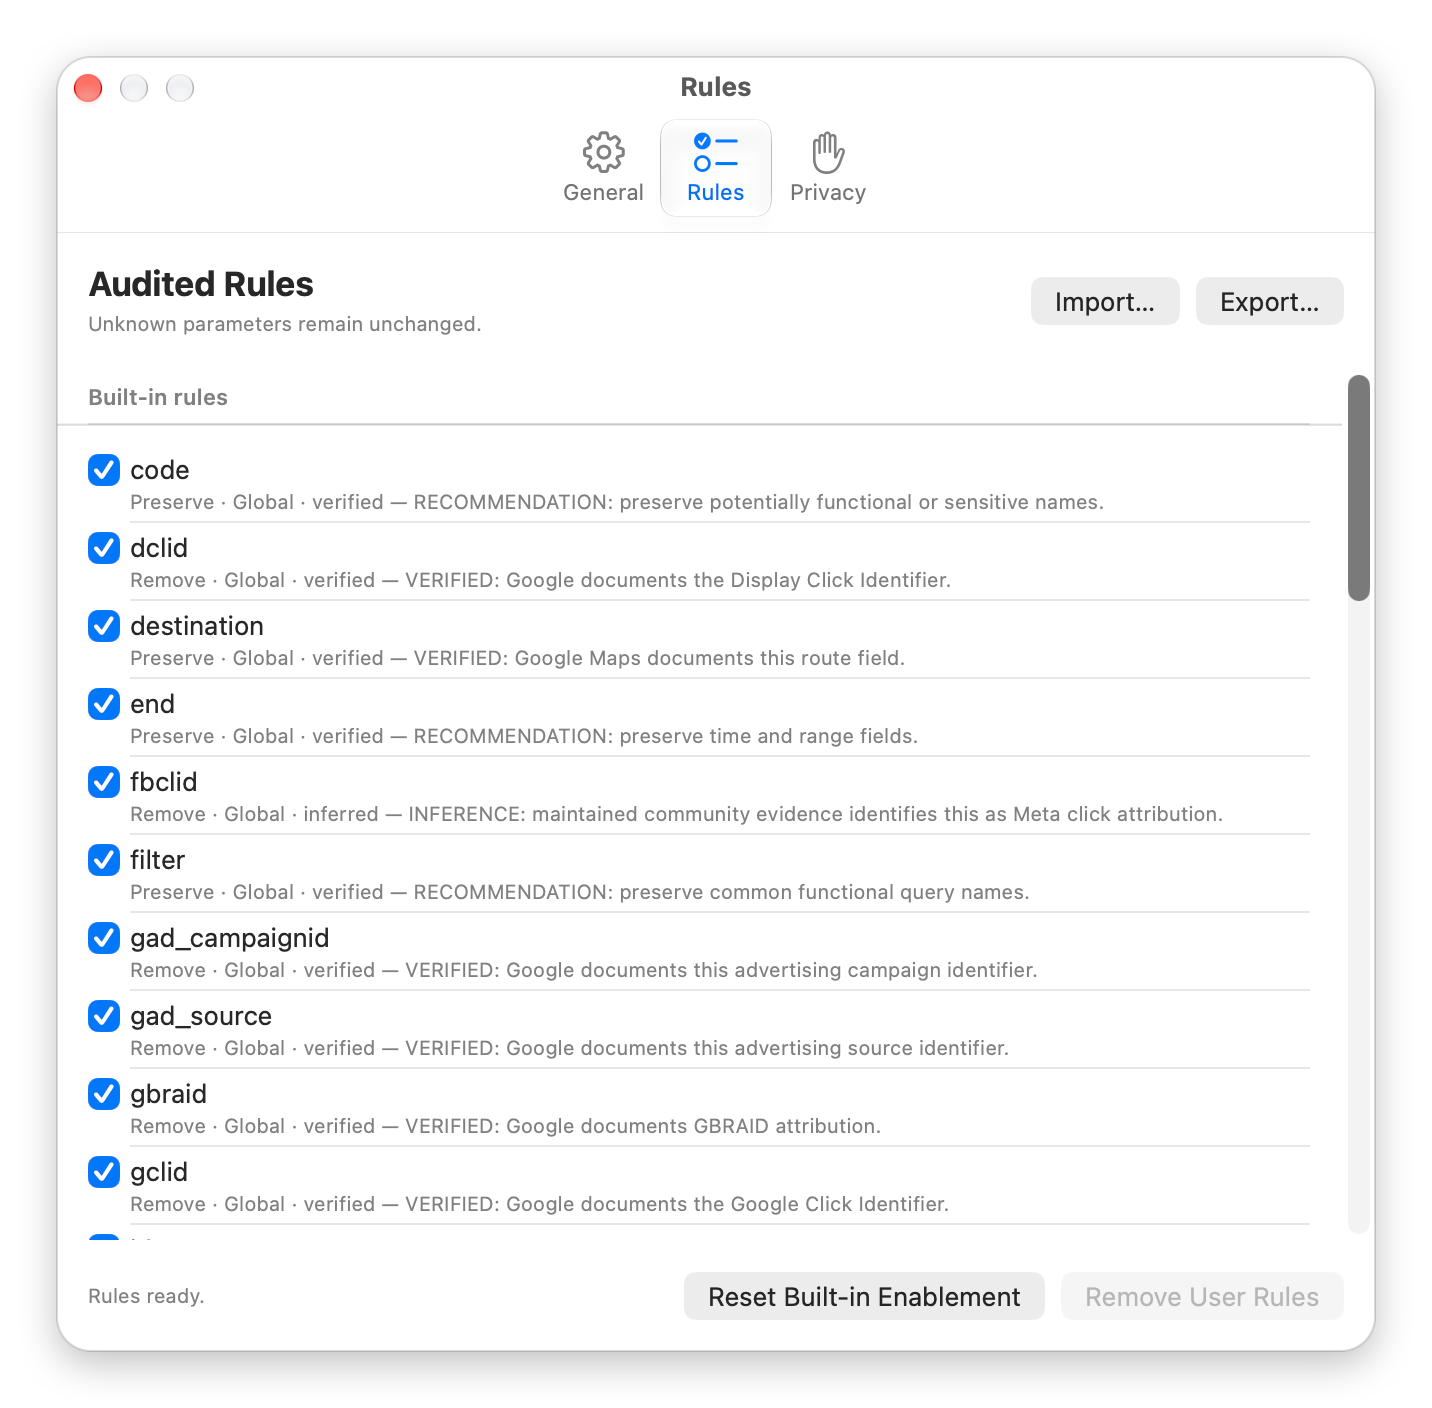
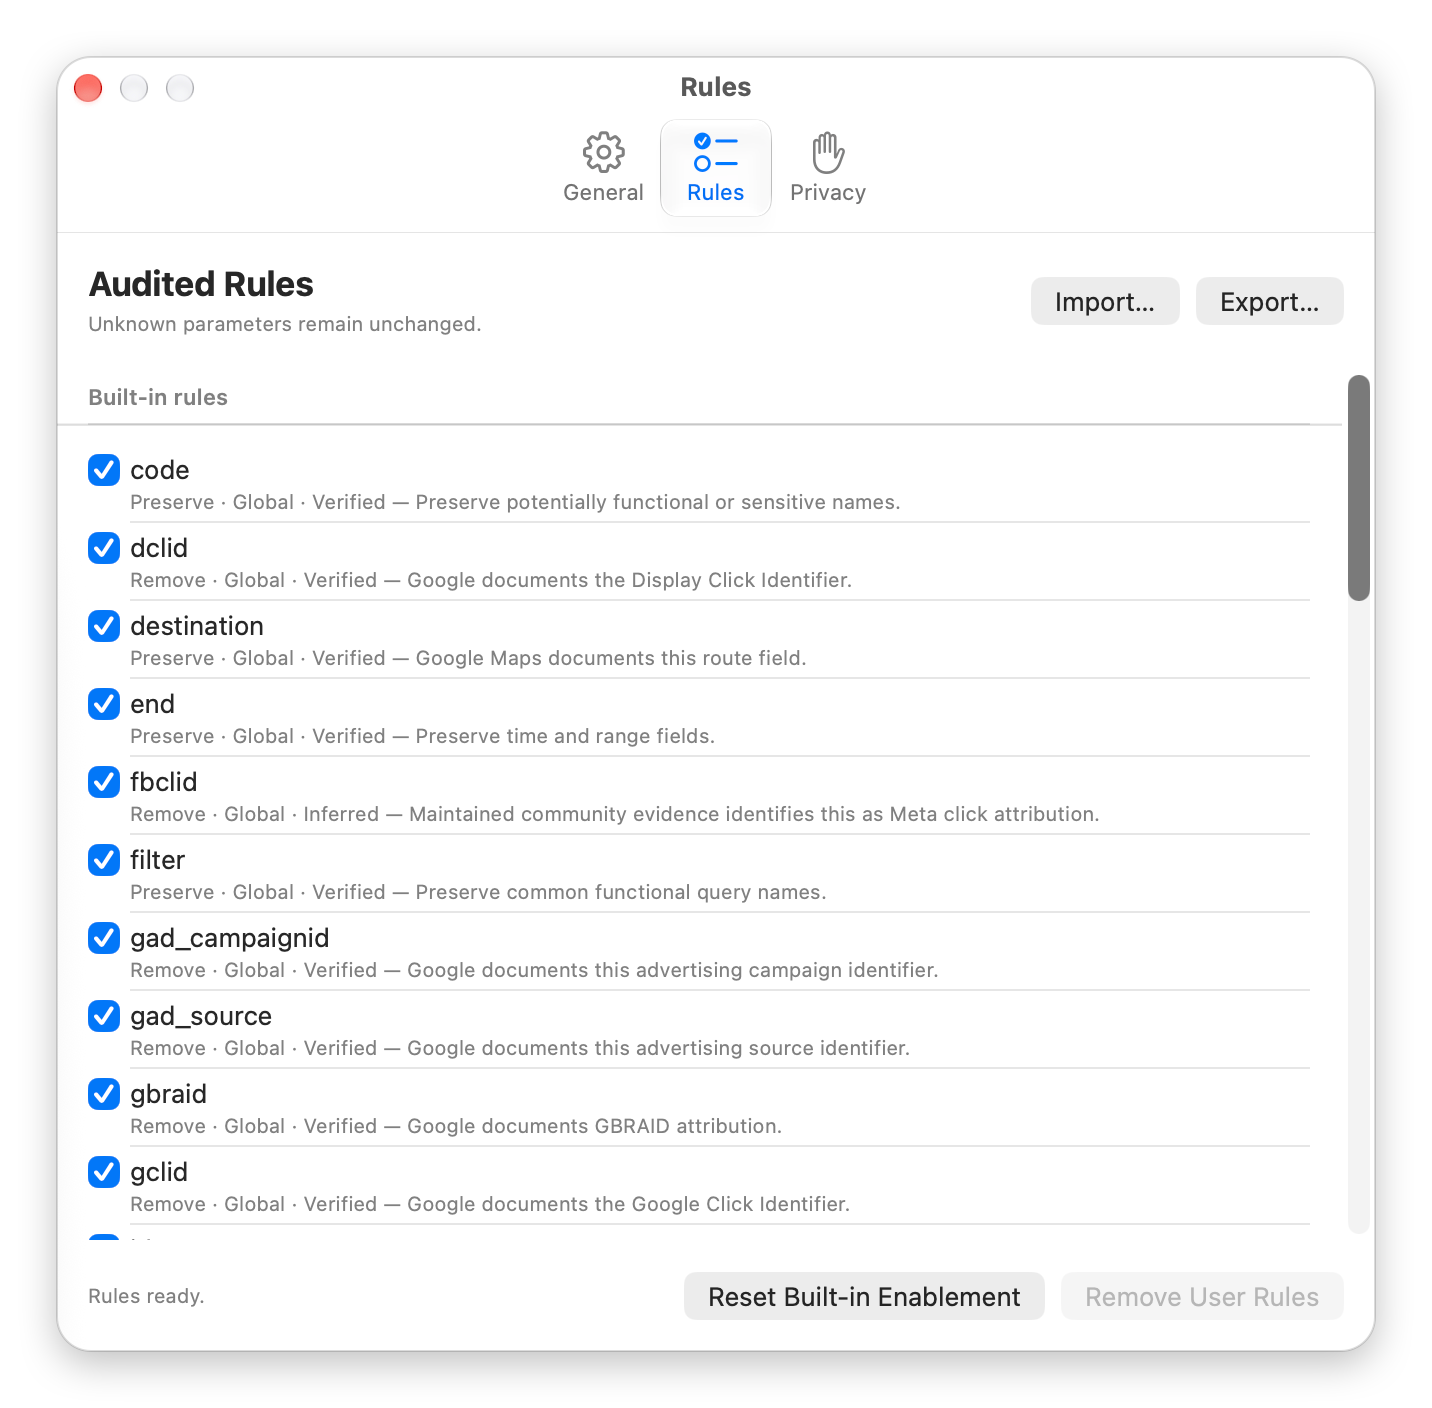
Show rule explanations without evidence tags in Settings
The Rules list subtitle now drops a leading VERIFIED:/RECOMMENDATION:/
INFERENCE: (and OPEN:/CONSEQUENCE:) tag and capitalizes the confidence
and explanation, e.g. "Remove · Global · Verified — Google documents
the Google Click Identifier." This is display-only: the bundled JSON,
stored user rules and export format are unchanged.

Adds RuleDisplayFormattingTests, refreshes rules.png, adds general.png,
and records the run in LOG.md.

diff --git a/docs/LOG.html b/docs/LOG.html
@@ -1,11 +1,11 @@
-<!-- tracker-free-docs-parity:v1 source-sha256=ebcadc584bad8fdddd96d753121a8e1fa1b8332d6051a4aa983363f3b4566094 source-path-base64=ZG9jcy9MT0cubWQ= -->
+<!-- tracker-free-docs-parity:v1 source-sha256=854890dde805da326b975e17243cba528395c5e76dd23358c14845d0f8e3ec78 source-path-base64=ZG9jcy9MT0cubWQ= -->
 <!doctype html>
 <html lang="en">
 <head>
   <meta charset="utf-8">
   <meta name="viewport" content="width=device-width, initial-scale=1">
   <meta name="generator" content="Tracker Free DocsParity v1">
[2 lines of base64/hex data omitted]
   <title>Project Log</title>
   <style>
     :root { color-scheme: light dark; font-family: -apple-system, BlinkMacSystemFont, "Segoe UI", sans-serif; line-height: 1.55; }
@@ -63,5 +63,10 @@
   <p><code>VERIFIED</code>: Added light-mode @2x screenshots under <code>docs/screenshots/</code>. The Rules and Privacy images are XCUITest window screenshots of the Release build, launched with <code>--ui-testing-open-settings</code> so it used a fake pasteboard. The menu image is the app's menu items and default post-clean state rendered by AppKit <code>NSMenu</code> in a separate harness process. Screen Recording was unavailable to the build host, and synthesized clicks did not open the status item. The throwaway capture test and harness were not committed.</p>
   <p><code>VERIFIED</code>: Built Release with Xcode 27.0 (27A5228h) on macOS 27.2 (26B5091g). The output is arm64 only; an <code>ARCHS=&quot;arm64 x86_64&quot;</code> request still produced arm64. It is ad-hoc signed with Hardened Runtime, has only the App Sandbox and user-selected read/write entitlements, and passes strict <code>codesign</code> verification both before zipping and after extraction. <code>ditto -c -k --keepParent</code> produced <code>TrackerFree-1.0.0-macOS.zip</code> (363,955 bytes; SHA-256 <code>109b218b81c191bcf2c86e6724cdb974357f10d89b194dadcd51ab0919f3085a</code>). That zip is attached to an unpublished draft GitHub release <code>v1.0.0</code> targeting <code>main</code>.</p>
   <p><code>OPEN</code>: The draft release is not notarized. Publishing it, and every installed-build item in <a href="STATUS.html">Current status</a>, remains a separate decision.</p>
+  <h2 id="2026-09-23-display-only-rule-explanation-formatting">2026-09-23 — display-only rule explanation formatting</h2>
+  <p><code>VERIFIED</code>: The Settings rule list no longer shows leading evidence tags (<code>VERIFIED:</code>, <code>RECOMMENDATION:</code>, <code>INFERENCE:</code>, <code>OPEN:</code>, <code>CONSEQUENCE:</code>) in each rule's subtitle, and it capitalizes the confidence and the first letter of the explanation. Only exact, known tags are removed. The bundled JSON, persisted user rules, and the export format are unchanged. New <code>RuleDisplayFormattingTests</code> cover tag removal, untagged and edge-case text, an unchanged stored explanation, and the absence of tags from every bundled rule's subtitle.</p>
+  <p><code>VERIFIED</code>: The Debug <code>-only-testing:TrackerFreeTests</code> run ran 83 top-level tests (79 XCTest and 4 Swift Testing): 82 passed, 1 Release-only performance case was skipped, and none failed.</p>
+  <p><code>VERIFIED</code>: The refreshed <code>docs/screenshots/rules.png</code> and the new <code>general.png</code> are XCUITest window captures of the Release build, taken in the isolated <code>--ui-testing-open-settings</code> mode with a fake pasteboard and in-memory state. The General capture turned on automatic cleaning in that isolated state only. Its Launch at Login row reports the build host's live <code>SMAppService</code> status and does not close the Launch at Login gate in <a href="STATUS.html">Current status</a>.</p>
+  <p><code>OPEN</code>: The build host locked during capture. A Rules view scrolled to the host-scoped rules could not be captured, and the existing <code>testSettingsSceneCanOpenForDocklessApp</code> could not be rerun afterwards, so it has no fresh result from this session.</p>
 </body>
 </html>

diff --git a/README.html b/README.html
@@ -1,11 +1,11 @@
-<!-- tracker-free-docs-parity:v1 source-sha256=d50855551c0a97979407caf01f5c50cab018d81fe5409ce86c65817a5972bbe2 source-path-base64=UkVBRE1FLm1k -->
+<!-- tracker-free-docs-parity:v1 source-sha256=e816e23e9fb07a020e34f834ed93a549415a1dd6daf31694dd99a8c51aeaf568 source-path-base64=UkVBRE1FLm1k -->
 <!doctype html>
 <html lang="en">
 <head>
   <meta charset="utf-8">
   <meta name="viewport" content="width=device-width, initial-scale=1">
   <meta name="generator" content="Tracker Free DocsParity v1">
[2 lines of base64/hex data omitted]
   <title>Tracker Free</title>
   <style>
     :root { color-scheme: light dark; font-family: -apple-system, BlinkMacSystemFont, "Segoe UI", sans-serif; line-height: 1.55; }
@@ -32,7 +32,7 @@
   <pre><code class="language-text">https://example.com/article?id=42</code></pre>
   <p>Tracker Free runs quietly in the menu bar. When you copy a single, plain link, it removes known tracking parameters such as <code>utm_*</code>, <code>gclid</code>, and <code>fbclid</code>, and keeps everything else exactly as it was, down to each byte. It does nothing with prose, code, rich text, short links, signed links, or login links. It has no network access, keeps nothing on disk, and every rule it applies can be reviewed in Settings.</p>
   <p>!<a href="docs/screenshots/menu.png">Tracker Free menu-bar menu showing automatic cleaning on, Skip Next, Pause, Clean Clipboard Now, Restore Original, and the last result: removed utm_source, utm_medium, utm_campaign</a></p>
-  <p>!<a href="docs/screenshots/rules.png">Tracker Free Settings, Rules tab, listing audited built-in rules such as dclid, fbclid, gclid (remove) and code, destination, filter (preserve), each with its confidence and source</a></p>
+  <p>!<a href="docs/screenshots/rules.png">Tracker Free Settings, Rules tab, listing audited built-in rules such as dclid, fbclid, gclid (remove) and code, destination, filter (preserve), each with its action, scope, confidence, and a plain-English explanation</a></p>
   <h2 id="what-it-removes">What it removes</h2>
   <p>Tracker Free removes a parameter only when a rule names it exactly. There are 52 built-in rules, and each one records its scope, a confidence level, and where the evidence for it came from.</p>
   <p>**Global tracking parameters** (removed from any qualifying link):</p>
@@ -149,7 +149,7 @@ xcodebuild -project TrackerFree.xcodeproj -scheme TrackerFree -configuration Rel
   <li>**Property checks:** <code>clean(clean(x)) == clean(x)</code>; output never grows; kept fields form an exact ordered subsequence; the scheme, host, path, and fragment stay byte-identical; rule order cannot change precedence; host fuzzing covers case, suffix attacks, ports, Punycode, and IPv4/IPv6.</li>
   <li>**Failure injection** covers clipboard races, write and readback failures, ownership loss during rollback, stale undo, competing clipboard cleaners, sleep/wake, session loss, and relaunch. Tests use fake or uniquely named pasteboards, never your real clipboard.</li>
   <li>**Performance** (Release, 21-sample medians on exactly 64 KiB inputs): a large query value in **9.09 ms**, many query fields in 1.99 ms, many path components in 0.61 ms, and a long parameter name against 512 rules in 5.48 ms. 10,000 synthetic clipboard events retained **48 KiB** of memory, against a 5 MiB budget.</li>
-  <li>The latest recorded Debug run had 78 of 79 top-level tests passing, with one Release-only performance test skipped by design. Release acceptance passed 4 of 4.</li>
+  <li>The latest Debug run of <code>TrackerFreeTests</code> had 82 of 83 top-level tests passing (79 XCTest and 4 Swift Testing), with one Release-only performance test skipped by design. The last recorded Release acceptance run passed 4 of 4.</li>
 </ul>
   <h2 id="built-with-ai">Built with AI</h2>
   <p>I built Tracker Free with AI coding agents. The agents worked within a written specification and had to back every claim with evidence. The repository keeps that process visible:</p>

diff --git a/TrackerFreeTests/RuleEngineTests.swift b/TrackerFreeTests/RuleEngineTests.swift
@@ -939,3 +939,64 @@ final class RuleEngineTests: XCTestCase {
         )
     }
 }
+
+@MainActor
+final class RuleDisplayFormattingTests: XCTestCase {
+    func testDisplayExplanationDropsLeadingEvidenceTagAndCapitalizes() {
+        XCTAssertEqual(
+            AppState.displayExplanation(
+                "VERIFIED: Google documents the Google Click Identifier."
+            ),
+            "Google documents the Google Click Identifier."
+        )
+        XCTAssertEqual(
+            AppState.displayExplanation(
+                "RECOMMENDATION: preserve potentially functional or sensitive names."
+            ),
+            "Preserve potentially functional or sensitive names."
+        )
+        XCTAssertEqual(
+            AppState.displayExplanation(
+                "INFERENCE: remove s only on anchored X or Twitter status permalinks."
+            ),
+            "Remove s only on anchored X or Twitter status permalinks."
+        )
+    }
+
+    func testDisplayExplanationLeavesUntaggedTextReadable() {
+        XCTAssertEqual(AppState.displayExplanation("user note"), "User note")
+        XCTAssertEqual(AppState.displayExplanation("URL: kept as is"), "URL: kept as is")
+        XCTAssertEqual(AppState.displayExplanation("A: short"), "A: short")
+        XCTAssertEqual(AppState.displayExplanation("VERIFIED:"), "VERIFIED:")
+        XCTAssertEqual(AppState.displayExplanation("NOTE: keep"), "NOTE: keep")
+        XCTAssertEqual(AppState.displayExplanation(""), "")
+    }
+
+    func testDisplayRowFormatsDetailWithoutChangingStoredExplanation() {
+        let rule = TestRuleFactory.rule(
+            id: "builtin.remove.gclid",
+            action: .removeParameter,
+            name: "gclid",
+            explanation: "VERIFIED: Google documents the Google Click Identifier."
+        )
+        let row = AppState.displayRow(rule)
+        XCTAssertEqual(
+            row.detail,
+            "Remove · Global · Verified — Google documents the Google Click Identifier."
+        )
+        XCTAssertEqual(
+            rule.explanation,
+            "VERIFIED: Google documents the Google Click Identifier."
+        )
+    }
+
+    func testEveryBundledRuleDetailOmitsEvidenceTags() throws {
+        let snapshot = try TestRuleFactory.builtInSnapshot()
+        for rule in snapshot.rules {
+            let detail = AppState.displayRow(rule).detail
+            for tag in ["VERIFIED:", "RECOMMENDATION:", "INFERENCE:"] {
+                XCTAssertFalse(detail.contains(tag), "\(rule.id) detail kept \(tag)")
+            }
+        }
+    }
+}

diff --git a/TrackerFree/App/AppState.swift b/TrackerFree/App/AppState.swift
@@ -716,7 +716,7 @@ final class AppState: ObservableObject {
         }
     }
 
-    private static func displayRow(_ rule: CleaningRule) -> RuleDisplayRow {
+    static func displayRow(_ rule: CleaningRule) -> RuleDisplayRow {
         let action: String
         switch rule.action {
         case .removeParameter:
@@ -740,10 +740,40 @@ final class AppState: ObservableObject {
         return RuleDisplayRow(
             id: rule.id,
             displayName: rule.name,
-            detail: "\(action) · \(scope) · \(rule.confidence.rawValue) — \(rule.explanation)",
+            detail: "\(action) · \(scope) · \(displayConfidence(rule.confidence)) — "
+                + displayExplanation(rule.explanation),
             enabled: rule.enabled,
             isHardGuard: rule.origin == .builtIn && rule.action == .hardProtectURL
         )
+    }
+
+    static func displayConfidence(_ confidence: RuleConfidence) -> String {
+        switch confidence {
+        case .verified:
+            "Verified"
+        case .inferred:
+            "Inferred"
+        case .experimental:
+            "Experimental"
+        }
+    }
+
+    /// Display-only: drops a leading evidence tag such as `VERIFIED:` or
+    /// `INFERENCE:` (the confidence is already shown) and capitalizes the
+    /// first letter. Stored and exported explanations are unchanged.
+    private static let evidenceTags = [
+        "VERIFIED:", "RECOMMENDATION:", "INFERENCE:", "OPEN:", "CONSEQUENCE:",
+    ]
+
+    static func displayExplanation(_ explanation: String) -> String {
+        var text = Substring(explanation)
+        if let tag = evidenceTags.first(where: { text.hasPrefix($0) }) {
+            text = text.dropFirst(tag.count).drop { $0 == " " }
+        }
+        guard let first = text.first else {
+            return String(explanation)
+        }
+        return first.uppercased() + text.dropFirst()
     }
 
     private static func formattedDuration(_ duration: TimeInterval) -> String {

diff --git a/docs/LOG.md b/docs/LOG.md
@@ -75,3 +75,13 @@
[1 lines of base64/hex data omitted]
 
 `OPEN`: The draft release is not notarized. Publishing it, and every installed-build item in [Current status](STATUS.md), remains a separate decision.
+
+## 2026-09-23 — display-only rule explanation formatting
+
+`VERIFIED`: The Settings rule list no longer shows leading evidence tags (`VERIFIED:`, `RECOMMENDATION:`, `INFERENCE:`, `OPEN:`, `CONSEQUENCE:`) in each rule's subtitle, and it capitalizes the confidence and the first letter of the explanation. Only exact, known tags are removed. The bundled JSON, persisted user rules, and the export format are unchanged. New `RuleDisplayFormattingTests` cover tag removal, untagged and edge-case text, an unchanged stored explanation, and the absence of tags from every bundled rule's subtitle.
+
+`VERIFIED`: The Debug `-only-testing:TrackerFreeTests` run ran 83 top-level tests (79 XCTest and 4 Swift Testing): 82 passed, 1 Release-only performance case was skipped, and none failed.
+
+`VERIFIED`: The refreshed `docs/screenshots/rules.png` and the new `general.png` are XCUITest window captures of the Release build, taken in the isolated `--ui-testing-open-settings` mode with a fake pasteboard and in-memory state. The General capture turned on automatic cleaning in that isolated state only. Its Launch at Login row reports the build host's live `SMAppService` status and does not close the Launch at Login gate in [Current status](STATUS.md).
+
+`OPEN`: The build host locked during capture. A Rules view scrolled to the host-scoped rules could not be captured, and the existing `testSettingsSceneCanOpenForDocklessApp` could not be rerun afterwards, so it has no fresh result from this session.

diff --git a/README.md b/README.md
@@ -18,7 +18,7 @@ Tracker Free runs quietly in the menu bar. When you copy a single, plain link, i
 
 ![Tracker Free menu-bar menu showing automatic cleaning on, Skip Next, Pause, Clean Clipboard Now, Restore Original, and the last result: removed utm_source, utm_medium, utm_campaign](docs/screenshots/menu.png)
 
-![Tracker Free Settings, Rules tab, listing audited built-in rules such as dclid, fbclid, gclid (remove) and code, destination, filter (preserve), each with its confidence and source](docs/screenshots/rules.png)
+![Tracker Free Settings, Rules tab, listing audited built-in rules such as dclid, fbclid, gclid (remove) and code, destination, filter (preserve), each with its action, scope, confidence, and a plain-English explanation](docs/screenshots/rules.png)
 
 ## What it removes
 
@@ -117,7 +117,7 @@ xcodebuild -project TrackerFree.xcodeproj -scheme TrackerFree -configuration Rel
 - **Property checks:** `clean(clean(x)) == clean(x)`; output never grows; kept fields form an exact ordered subsequence; the scheme, host, path, and fragment stay byte-identical; rule order cannot change precedence; host fuzzing covers case, suffix attacks, ports, Punycode, and IPv4/IPv6.
 - **Failure injection** covers clipboard races, write and readback failures, ownership loss during rollback, stale undo, competing clipboard cleaners, sleep/wake, session loss, and relaunch. Tests use fake or uniquely named pasteboards, never your real clipboard.
 - **Performance** (Release, 21-sample medians on exactly 64 KiB inputs): a large query value in **9.09 ms**, many query fields in 1.99 ms, many path components in 0.61 ms, and a long parameter name against 512 rules in 5.48 ms. 10,000 synthetic clipboard events retained **48 KiB** of memory, against a 5 MiB budget.
-- The latest recorded Debug run had 78 of 79 top-level tests passing, with one Release-only performance test skipped by design. Release acceptance passed 4 of 4.
+- The latest Debug run of `TrackerFreeTests` had 82 of 83 top-level tests passing (79 XCTest and 4 Swift Testing), with one Release-only performance test skipped by design. The last recorded Release acceptance run passed 4 of 4.
 
 ## Built with AI
 
